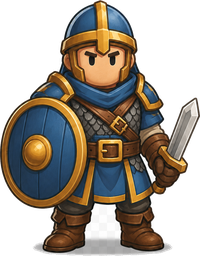
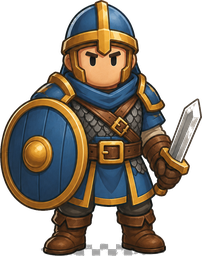
Fix unit sprite transparency artifacts

diff --git a/index.html b/index.html
@@ -3,7 +3,7 @@
 <head>
 <meta charset="UTF-8">
 <meta name="viewport" content="width=device-width,initial-scale=1,maximum-scale=1,user-scalable=no">
-<title>Fortress Commander v1.15.12 – Einheiten-Grafiken</title>
+<title>Fortress Commander v1.15.13 – Freistellungskorrektur</title>
 <link rel="stylesheet" href="css/style.css">
 </head>
 <body>
@@ -20,7 +20,7 @@
  <div id="titleArt" role="img" aria-label="Fortress Commander Titelbild">
   <button id="instructionsHotspot" class="menuHotspot" aria-label="Anleitung öffnen">Anleitung</button>
   <button id="playHotspot" class="menuHotspot" aria-label="Spiel starten">Spiel starten</button>
-  <div id="gameVersionBadge">v1.15.12</div>
+  <div id="gameVersionBadge">v1.15.13</div>
   <div id="developmentNotice"><strong>🏗 Festungsumbau in Entwicklung</strong><span>Mauertürme stehen jetzt bereits auf Holzpalisaden. Der mittlere Ring bietet acht, der äußere Ring zwölf feste Turmplätze.</span></div>
  </div>
 </div>
@@ -219,7 +219,7 @@
   </div>
   <div id="workshopTabs" class="workshopTabs"></div>
   <div id="techTree" class="techTree"></div>
-  <div class="workshopFoot">v1.15.12 · Bogenschütze und Burgwache nutzen jetzt neue statische Einheiten-Grafiken.</div>
+  <div class="workshopFoot">v1.15.13 · Die Freistellung der Einheiten-Grafiken wurde bereinigt.</div>
  </section>
 </div>
 

diff --git a/js/main.js b/js/main.js
@@ -139,8 +139,8 @@ import {
 
 (()=>{
 "use strict";
-const GAME_VERSION="1.15.12";
-const GAME_RELEASE_NAME="Einheiten-Grafiken";
+const GAME_VERSION="1.15.13";
+const GAME_RELEASE_NAME="Freistellungskorrektur";
 const AUTOSAVE_INTERVAL_MS=60_000;
 const discoveredEnemies=loadDiscoveredEnemies();
 function discoverEnemy(type){

diff --git a/CHANGELOG.md b/CHANGELOG.md
@@ -1,5 +1,10 @@
 # Fortress Commander – Changelog
 
+## v1.15.13 – Freistellungskorrektur
+- Freistellung von Bogenschütze und Burgwache bereinigt
+- helle Restflächen und sichtbare Hintergrundkästchen an den Einheiten entfernt
+- Einheiten-Grafiken bleiben statisch, Spielverhalten und Steuerung unverändert
+
 ## v1.15.12 – Einheiten-Grafiken
 - neue statische WebP-Grafiken für Bogenschütze und Burgwache integriert
 - Einheiten-Rendering lädt die neuen Grafiken aus dem Asset-Ordner